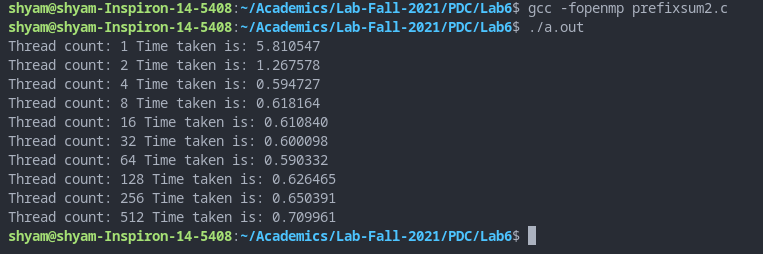
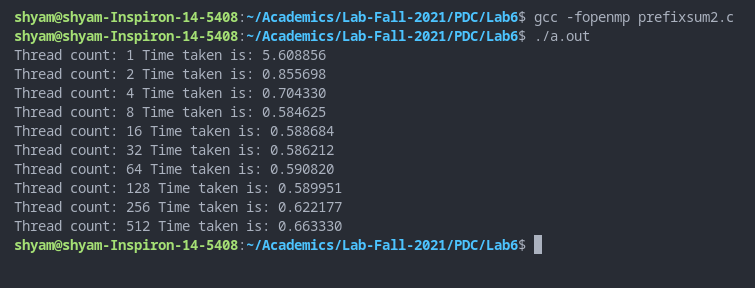
Modified PDC Lab 6 prefix2.c and added guided scheduling

Changed region(s): [[0.0, 0.3031, 0.457, 0.7992], [0.0, 0.0, 0.9748, 0.2756], [0.0, 0.7992, 0.7311, 0.9646]]

diff --git a/PDC/Lab6/prefixsum2.c b/PDC/Lab6/prefixsum2.c
@@ -2,7 +2,7 @@
 #include <stdlib.h>
 #include <omp.h>
 
-#define N 10000000
+#define N 100000000
 
 int main()
 {
@@ -30,11 +30,11 @@ int main()
         while(d<N)
         {
             int i;
-            #pragma omp parallel for
+            #pragma omp parallel for schedule(guided)
             for(i=d;i<N;++i)
             z[i]=y[i-d];
 
-            #pragma omp parallel for
+            #pragma omp parallel for schedule(guided)
             for(i=d;i<N;++i)
             y[i]+=z[i];
 
